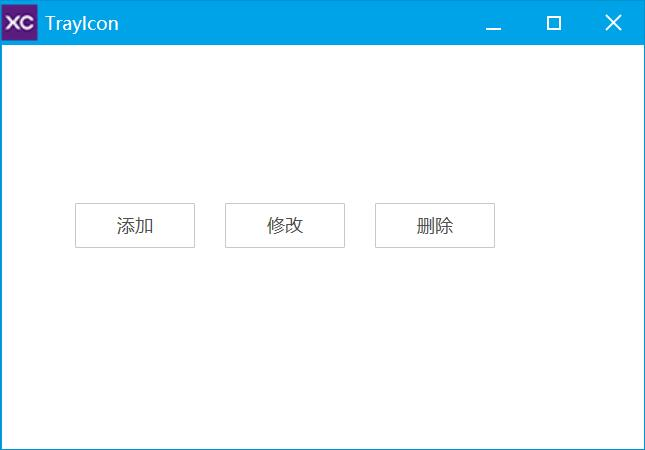
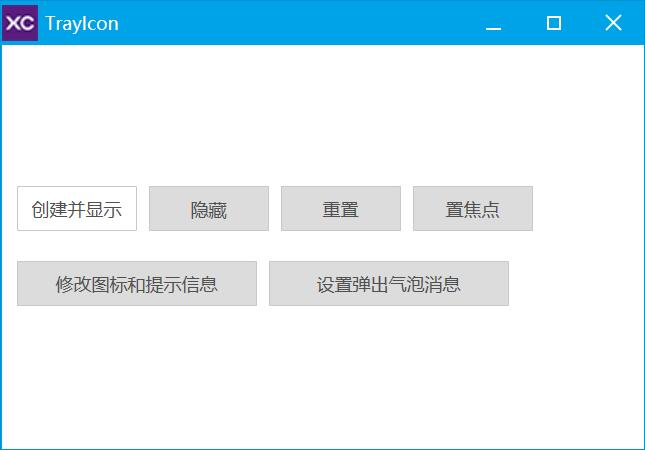
托盘图标

Changed region(s): [[0.0, 0.56, 0.8062, 0.6844], [0.031, 0.4044, 0.8372, 0.5289], [0.0, 0.0, 0.062, 0.0933]]

diff --git a/TrayIcon/TrayIcon.go b/TrayIcon/TrayIcon.go
@@ -1,4 +1,4 @@
-// 托盘图标.
+// 托盘图标. 使用对象来操作.
 package main
 
 import (
@@ -6,9 +6,9 @@ import (
 	"github.com/twgh/xcgui/app"
 	"github.com/twgh/xcgui/wapi"
 	"github.com/twgh/xcgui/wapi/wnd"
+	"github.com/twgh/xcgui/wapi/wutil"
 	"github.com/twgh/xcgui/widget"
 	"github.com/twgh/xcgui/window"
-	"github.com/twgh/xcgui/xc"
 	"github.com/twgh/xcgui/xcc"
 	"math/rand"
 	"strconv"
@@ -22,52 +22,159 @@ func main() {
 	defer a.Exit()
 	a.EnableDPI(true)
 	a.EnableAutoDPI(true)
+
 	// 2.创建窗口
 	w := window.New(0, 0, 430, 300, "TrayIcon", 0, xcc.Window_Style_Default|xcc.Window_Style_Drag_Window)
+	// 窗口设置边框大小
 	w.SetBorderSize(1, 30, 1, 1)
 
-	// 添加
-	btn1 := widget.NewButton(50, 135, 80, 30, "添加", w.Handle)
-	btn1.Event_BnClick(func(pbHandled *bool) int {
-		// 加载icon
-		iconName := "TrayIcon/icon.ico"
-		hIcon := wapi.LoadImageW(0, iconName, wapi.IMAGE_ICON, 0, 0, wapi.LR_LOADFROMFILE|wapi.LR_DEFAULTSIZE|wapi.LR_SHARED)
-		fmt.Println("hIcon:", hIcon)
-		fmt.Println("LastErr:", syscall.GetLastError())
-		if hIcon == 0 {
-			xc.XC_Alert("提示", "hIcon为0")
-			return 0
+	// 窗口启用布局
+	w.EnableLayout(true)
+	// 窗口设置左右两边的内填充大小
+	w.SetPadding(10, 0, 10, 0)
+	// 窗口设置布局盒子垂直居中
+	w.SetAlignV(xcc.Layout_Align_Center)
+	// 窗口设置内部元素间距
+	w.SetSpace(8)
+	// 窗口设置内部元素行间距
+	w.SetSpaceRow(20)
+
+	// 创建并显示
+	btnAdd := widget.NewButton(0, 0, 80, 30, "创建并显示", w.Handle)
+	// 显示或隐藏
+	btnShow := widget.NewButton(0, 0, 80, 30, "隐藏", w.Handle)
+	btnShow.Enable(false)
+	// 重置
+	btnReset := widget.NewButton(0, 0, 80, 30, "重置", w.Handle)
+	btnReset.Enable(false)
+	// 置焦点
+	btnFocus := widget.NewButton(0, 0, 80, 30, "置焦点", w.Handle)
+	btnFocus.Enable(false)
+
+	// 修改图标和提示信息
+	btnMod := widget.NewButton(0, 0, 160, 30, "修改图标和提示信息", w.Handle)
+	btnMod.Enable(false)
+	// 设置弹出气泡消息
+	btnMsg := widget.NewButton(0, 0, 160, 30, "设置弹出气泡消息", w.Handle)
+	btnMsg.Enable(false)
+
+	// 加载图标
+	hIcon1 := wutil.HIcon("TrayIcon/icon1.ico")
+	fmt.Println("hIcon1:", hIcon1, "LastErr:", syscall.GetLastError())
+	hIcon2 := wutil.HIcon("TrayIcon/icon2.ico")
+	fmt.Println("hIcon2:", hIcon2, "LastErr:", syscall.GetLastError())
+
+	var tray *window.TrayIcon
+	// 创建并显示托盘图标
+	btnAdd.Event_BnClick(func(pbHandled *bool) int {
+		btnAdd.Enable(false).Redraw(false)
+
+		// 创建托盘图标对象
+		tray = w.CreateTrayIcon(hIcon1, "托盘提示信息")
+		// 显示托盘图标
+		tray.Show(true)
+
+		btnMod.Enable(true).Redraw(false)
+		btnShow.Enable(true).Redraw(false)
+		btnMsg.Enable(true).Redraw(false)
+		btnFocus.Enable(true).Redraw(false)
+		return 0
+	})
+
+	// 修改图标和提示信息
+	btnMod.Event_BnClick(func(pbHandled *bool) int {
+		btnMod.Enable(false).Redraw(false)
+		defer btnMod.Enable(true).Redraw(false)
+
+		// 修改为新的图标
+		if tray.HIcon == hIcon1 {
+			tray.SetIcon(hIcon2)
+		} else {
+			tray.SetIcon(hIcon1)
 		}
 
-		// 托盘图标_置图标
-		xc.XTrayIcon_SetIcon(hIcon)
-		// 托盘图标_置提示文本
-		xc.XTrayIcon_SetTips("托盘提示信息")
-		// 置弹出气泡
-		// xc.XTrayIcon_SetPopupBalloon("弹出气泡", "弹出气泡内容测试", 0, xcc.TrayIcon_Flag_Icon_Info)
-		xc.XTrayIcon_Add(w.Handle, 111) // 自定义的id会传到托盘事件里
-		return 0
-	})
-
-	// 修改
-	btn2 := widget.NewButton(150, 135, 80, 30, "修改", w.Handle)
-	btn2.Event_BnClick(func(pbHandled *bool) int {
+		// 修改托盘提示信息
 		rand.Seed(time.Now().Unix())
-		xc.XTrayIcon_SetTips("修改了托盘提示信息: " + strconv.Itoa(rand.Int()))
-		xc.XTrayIcon_Modify()
+		tray.SetTips("修改了图标和托盘提示信息: " + strconv.Itoa(rand.Int()))
+
+		// 应用修改
+		tray.Modify()
 		return 0
 	})
 
-	// 删除
-	btn3 := widget.NewButton(250, 135, 80, 30, "删除", w.Handle)
-	btn3.Event_BnClick(func(pbHandled *bool) int {
-		xc.XTrayIcon_Del()
+	// 设置弹出气泡消息
+	btnMsg.Event_BnClick(func(pbHandled *bool) int {
+		tray.SetPopupBalloon("弹出气泡标题", "弹出气泡内容: "+strconv.Itoa(rand.Int()), 0, xcc.TrayIcon_Flag_Icon_Info)
+		// 应用修改
+		tray.Modify()
+		return 0
+	})
+
+	// 显示或隐藏, 原理实际是添加或删除.
+	// 当你手动把托盘图标从隐藏区域拖拽到任务栏固定后, 你肯定想让他一直固定在任务栏, 不再回隐藏区域.
+	// 但这里有个坑: 如果你在托盘图标创建并显示后, 有过修改图标/提示信息的操作, 那你隐藏图标再显示时它会回到隐藏区域.
+	// 如果你在托盘图标创建后, 没有过修改图标/提示信息的操作, 那你随便控制显示和隐藏都没问题.
+	// 如果你不需要切换隐藏和显示状态, 那你随便修改都无所谓.
+	// 如果你想修改, 还想控制显示和隐藏, 那么你隐藏后应该调用一下重置函数, 显示后再重新对托盘图标进行设置.
+	btnShow.Event_BnClick(func(pbHandled *bool) int {
+		btnShow.Enable(false).Redraw(false)
+
+		if btnShow.GetText() == "显示" {
+			btnShow.SetText("隐藏")
+			tray.Show(true)
+		} else {
+			btnShow.SetText("显示")
+			tray.Show(false)
+		}
+
+		/*
+			// 解决你想修改, 还想控制图标显示和隐藏的办法: 在隐藏后调用一下重置函数, 显示后再重新对托盘图标进行设置.
+			// 因为我不知道xcgui.dll里这几个函数的内部实现究竟是什么, 所以这只是我测试得出的解决办法, 是否有更好的我不知道.
+			// 不过控制隐藏和显示本来就是个小众需求, 用到的人应该很少. 大部分人的托盘图标都只用来呼出托盘菜单罢了.
+			if btnShow.GetText() == "显示" {
+				btnShow.SetText("隐藏")
+				tray.Show(true)
+
+				// 因为隐藏的时候重置了, 这里就得重新设置, 细节是show之后再设置托盘图标信息, 而不是show之前.
+				tray.SetIcon(tray.HIcon).SetTips(tray.Tips).Modify()
+			} else {
+				btnShow.SetText("显示")
+				tray.Show(false)
+
+				// 隐藏后多调用了个重置
+				tray.Reset()
+			}*/
+
+		btnReset.Enable(!btnReset.IsEnable()).Redraw(false)
+		btnShow.Enable(true).Redraw(false)
+		return 0
+	})
+
+	// 重置会清空已经设置的图标(图标句柄并没有释放)、文字提示等信息, 只能在托盘图标不在系统托盘显示的时候使用
+	btnReset.Event_BnClick(func(pbHandled *bool) int {
+		btnReset.Enable(false).Redraw(false)
+		defer btnReset.Enable(true).Redraw(false)
+
+		tray.Reset()
+		return 0
+	})
+
+	// 托盘图标置焦点
+	btnFocus.Event_BnClick(func(pbHandled *bool) int {
+		btnFocus.Enable(false).Redraw(false)
+		defer btnFocus.Enable(true).Redraw(false)
+
+		tray.SetFocus()
 		return 0
 	})
 
 	// 注册托盘图标事件
 	w.Event_TRAYICON(func(wParam, lParam uintptr, pbHandled *bool) int {
 		fmt.Println(wParam, lParam)
+		if int32(wParam) != tray.Id { // 不是自定义的托盘图标唯一标识符.
+			return 0
+		}
+
 		switch xcc.WM_(lParam) {
 		case xcc.WM_LBUTTONDOWN:
 			w.ShowWindow(xcc.SW_SHOWNORMAL)
@@ -76,9 +183,9 @@ func main() {
 			menu := widget.NewMenu()
 			// 一级菜单
 			menu.AddItem(10001, "窗口置顶", 0, xcc.Menu_Item_Flag_Select)
-			// 获取自己 SetProperty 的值, 这不是读写元素的属性, 只是对元素里内置的一个map进行读写
+			// 获取自己 SetProperty 的值, 这不是读写元素的属性, 可理解为对元素里内置的一个map进行读写
 			// 这样可以不用另外声明变量, 能用到很多地方记录一些东西
-			if a.GetProperty(w.Handle, "窗口置顶") == "1" {
+			if a.GetProperty(w.Handle, "记录窗口置顶状态") == "1" {
 				menu.SetItemCheck(10001, true)
 			} else {
 				menu.SetItemCheck(10001, false)
@@ -100,12 +207,12 @@ func main() {
 		fmt.Println("托盘菜单被选择:", nID)
 		switch nID {
 		case 10001:
-			if a.GetProperty(w.Handle, "窗口置顶") == "1" {
-				a.SetProperty(w.Handle, "窗口置顶", "0")
+			if a.GetProperty(w.Handle, "记录窗口置顶状态") == "1" {
+				a.SetProperty(w.Handle, "记录窗口置顶状态", "0")
 				wnd.SetTop(w.GetHWND(), false)
 				fmt.Println("窗口已取消置顶")
 			} else {
-				a.SetProperty(w.Handle, "窗口置顶", "1")
+				a.SetProperty(w.Handle, "记录窗口置顶状态", "1")
 				wnd.SetTop(w.GetHWND(), true)
 				fmt.Println("窗口已被置顶")
 			}
